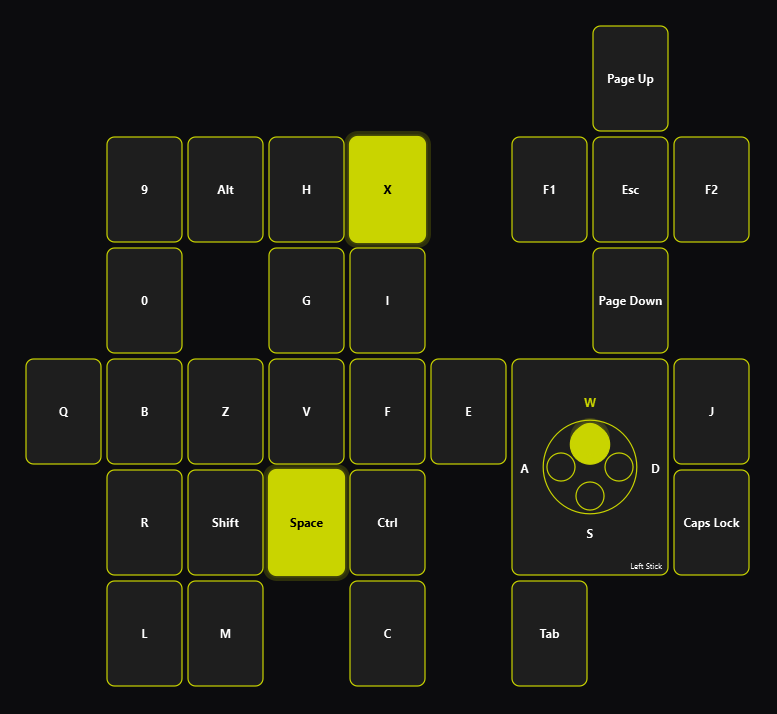
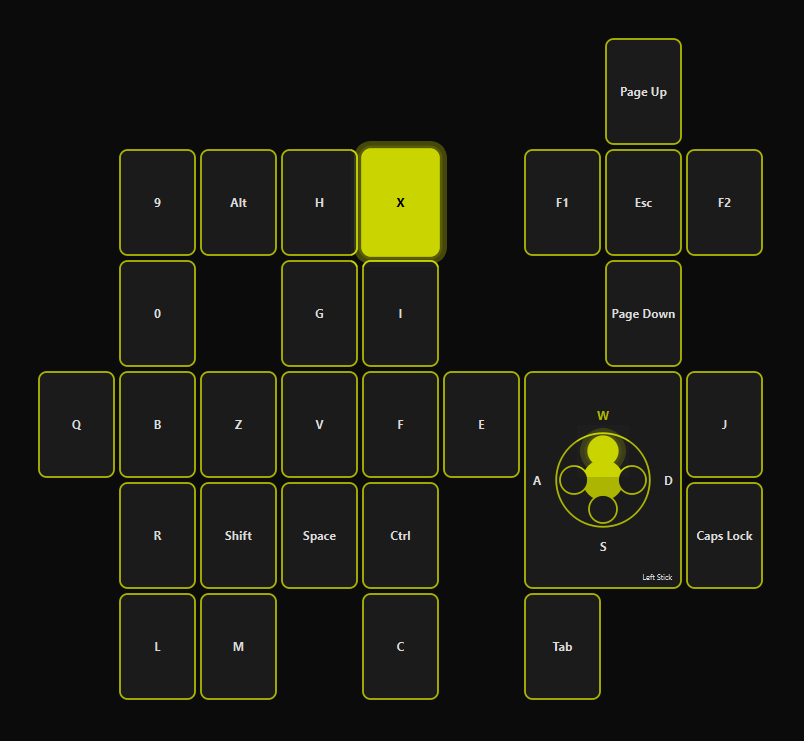
Generate docs/overlay.png from the real overlay in screenshots.py
The overlay screenshot is now produced by debug/screenshots.py alongside
the settings pages, with a few inputs injected as key-down events so the
pressed state is visible, over a dark backdrop.

Changed region(s): [[0.0309, 0.0308, 0.9575, 0.9552]]

diff --git a/debug/screenshots.py b/debug/screenshots.py
@@ -1,5 +1,6 @@
 """Regenerate the README screenshots of the settings pages (docs/layout.png,
-docs/keys.png, docs/appearance.png) from the real widgets at the screen's DPR.
+docs/keys.png, docs/appearance.png) and the overlay itself (docs/overlay.png,
+with a few inputs lit) from the real widgets at the screen's DPR.
 
   python debug/screenshots.py
 
@@ -11,6 +12,7 @@ import sys
 sys.path.insert(0, os.path.dirname(os.path.dirname(os.path.abspath(__file__))))
 
 from PySide6.QtCore import Qt, Signal  # noqa: E402
+from PySide6.QtGui import QColor, QImage, QPainter  # noqa: E402
 from PySide6.QtTest import QTest  # noqa: E402
 from PySide6.QtWidgets import QApplication, QWidget  # noqa: E402
 
@@ -41,9 +43,38 @@ class StubOverlay(QWidget):
         pass
 
 
+LIT = ("X", "Space", "W")  # inputs shown held in docs/overlay.png
+PAD = 24  # px of dark background around the overlay
+
+
+def grab_overlay(name="overlay"):
+    """Real overlay with LIT inputs injected as key-down events, over a dark backdrop."""
+    ov = overlay.Overlay(overlay.load_config())
+    ov.show()
+    QTest.qWait(200)
+    for label in LIT:
+        for vk in overlay.vks_for_label(label):
+            ov.events.put(("down", vk))
+    QTest.qWait(250)  # pump() drains the queue and lights the pads
+    shot = ov.grab().toImage()
+    dpr = shot.devicePixelRatio()
+    out = QImage(shot.width() + int(2 * PAD * dpr), shot.height() + int(2 * PAD * dpr), QImage.Format.Format_ARGB32)
+    out.setDevicePixelRatio(dpr)
+    out.fill(QColor("#0b0b0b"))
+    p = QPainter(out)
+    p.drawImage(PAD, PAD, shot)
+    p.end()
+    path = os.path.join(DOCS, f"{name}.png")
+    out.save(path)
+    print("wrote", path)
+    ov.tick.stop()
+    ov.close()
+
+
 def main():
     app = QApplication.instance() or QApplication(sys.argv)
     app.setStyle("Fusion")
+    grab_overlay()
     settings_ui.save_config = lambda cfg: None  # never write the repo config from here
     window = settings_ui.SettingsWindow(StubOverlay())
     window.resize(1040, 860)
